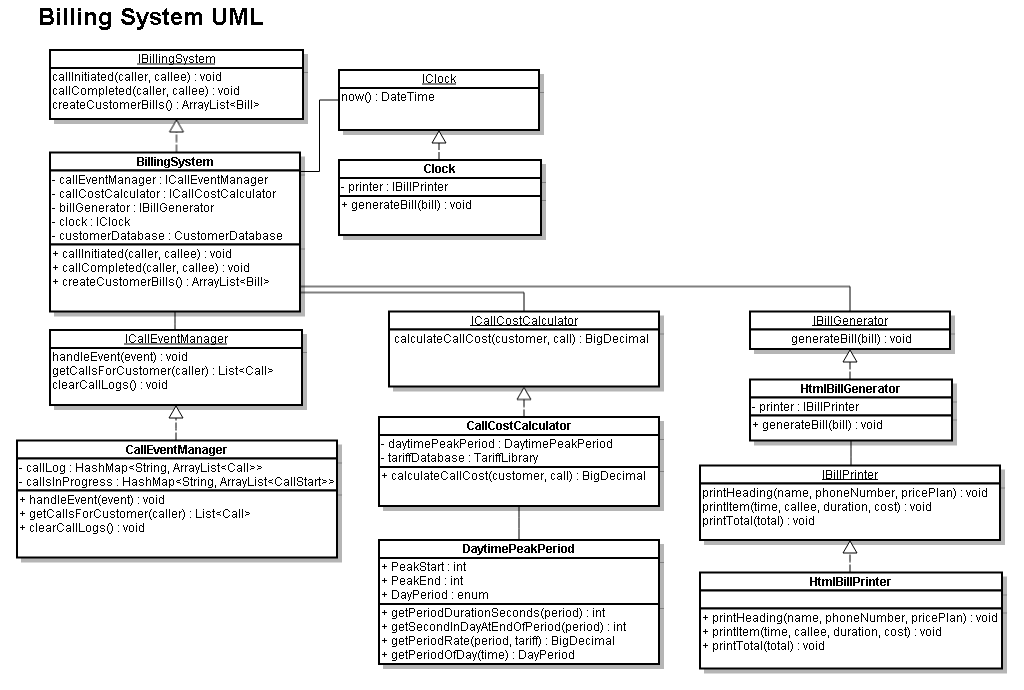
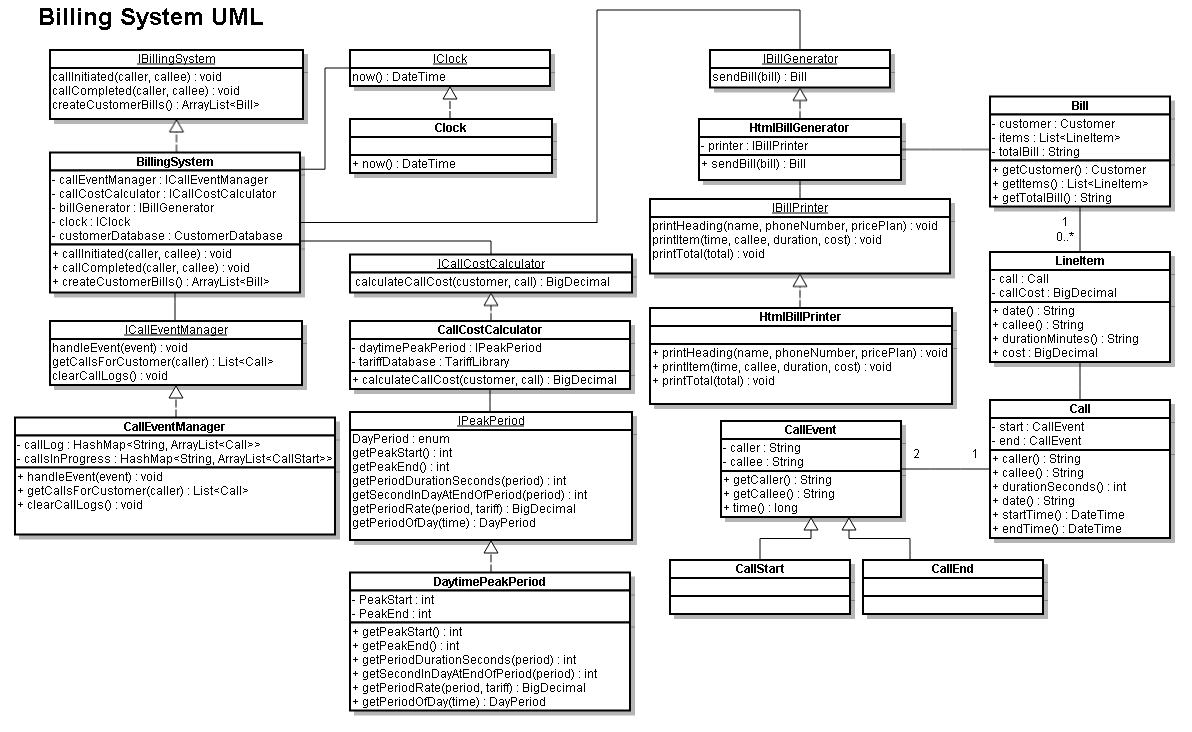
Improved call costing algorithm.

Changed region(s): [[0.0, 0.0, 1.0, 1.0], [0.5, 0.0, 0.6562, 0.0304]]

diff --git a/src/com/acmetelecom/CallCostCalculator.java b/src/com/acmetelecom/CallCostCalculator.java
@@ -55,7 +55,6 @@ public class CallCostCalculator implements ICallCostCalculator {
         
         DateTime currentTime = start;
         DayPeriod currentPeriod;
-        boolean firstPeriod = true;
         boolean done = false;
         
         // Goes through each period between start and end of call, summing cost progressively.
@@ -65,31 +64,23 @@ public class CallCostCalculator implements ICallCostCalculator {
         	BigDecimal currentPeriodRate = peakPeriod.getPeriodRate(currentPeriod, tariff);
         	boolean callEndsThisPeriod = currentDay == endDay && currentPeriod == endPeriod;
         	
-        	// First period (if call does not end in first period) -> add cost from start time until end of first period.
-        	if (firstPeriod && !callEndsThisPeriod) {
-        		int time = peakPeriod.getSecondInDayAtEndOfPeriod(currentPeriod) - start.getSecondOfDay();
-        		BigDecimal periodCost = new BigDecimal(time).multiply(currentPeriodRate);
-        		cost = cost.add(periodCost);
-        		currentTime = currentTime.plusSeconds(time);
-        		firstPeriod = false;
-        	}
         	// Call ends in this period -> add cost from now until call end time.
-        	else if (callEndsThisPeriod) {
+        	if (callEndsThisPeriod) {
         		int time = end.getSecondOfDay() - currentTime.getSecondOfDay();
         		BigDecimal periodCost = new BigDecimal(time).multiply(currentPeriodRate);
         		cost = cost.add(periodCost);
         		done = true;
         	}
-        	// Call continues throughout this period -> add cost of whole period.
+        	// Call continues to end of this period -> add cost from current time until end of period.
         	else {
-    			int periodDuration = peakPeriod.getPeriodDurationSeconds(currentPeriod);
-    			BigDecimal periodCost = new BigDecimal(periodDuration).multiply(currentPeriodRate);
-    			cost = cost.add(periodCost);
-    			currentTime = currentTime.plusSeconds(periodDuration);
+        		int time = peakPeriod.getSecondInDayAtEndOfPeriod(currentPeriod) - currentTime.getSecondOfDay();
+        		BigDecimal periodCost = new BigDecimal(time).multiply(currentPeriodRate);
+        		cost = cost.add(periodCost);
+        		currentTime = currentTime.plusSeconds(time);
         	}
         }
         
         cost = cost.setScale(0, RoundingMode.HALF_UP);
         return cost;
-	}	
+	}
 }

diff --git a/src/com/acmetelecom/Bill.java b/src/com/acmetelecom/Bill.java
@@ -10,22 +10,22 @@ import com.acmetelecom.customer.Customer;
 public class Bill {
 
 	private Customer customer;
-	private List<LineItem> calls;
+	private List<LineItem> items;
 	private String totalBill;
 	
 	/**
 	 * Constructor.
 	 * @param customer The customer this bill is for.
-	 * @param calls A list of calls this customer has made.
+	 * @param items A list of LineItems which each identifies a call the customer has made and its cost.
 	 * @param totalBill The customer's total bill.
 	 * @exception IllegalArgumentException If any of arguments are null.
 	 */
-	public Bill(Customer customer, List<LineItem> calls, String totalBill) {
+	public Bill(Customer customer, List<LineItem> items, String totalBill) {
 		AssertionHelper.NotNull(customer, "customer");
-		AssertionHelper.NotNull(calls, "calls");
+		AssertionHelper.NotNull(items, "calls");
 		AssertionHelper.NotNull(totalBill, "totalBill");
 		this.customer = customer;
-		this.calls = calls;
+		this.items = items;
 		this.totalBill = totalBill;
 	}
 	
@@ -38,11 +38,11 @@ public class Bill {
 	}
 	
 	/**
-	 * Gets the list of calls this customer will be charged for.
-	 * @return The list of calls included in this bill.
+	 * Gets the list of items/calls this customer will be charged for.
+	 * @return The list of items included in this bill.
 	 */
-	public List<LineItem> getCalls() {
-		return calls;
+	public List<LineItem> getItems() {
+		return items;
 	}
 	
 	/**

diff --git a/src/tests/AcceptanceTests.java b/src/tests/AcceptanceTests.java
@@ -206,7 +206,7 @@ public class AcceptanceTests {
 		assertTrue(bills.size() == dummyCustomers.size());
 		int callsLogged = 0;
 		for (Bill bill : bills) {
-			callsLogged += bill.getCalls().size();
+			callsLogged += bill.getItems().size();
 		}
 
 		assertTrue(callsMade == callsLogged);
@@ -235,7 +235,7 @@ public class AcceptanceTests {
 		assertTrue(bills.size() == dummyCustomers.size());
 		for (Bill bill : bills) {
 			if (bill.getCustomer().getPhoneNumber().equals(c1.getPhoneNumber())) {
-				List<LineItem> calls = bill.getCalls();
+				List<LineItem> calls = bill.getItems();
 				String totalBill = bill.getTotalBill();
 				
 				assertTrue(calls.size() == 1);

diff --git a/src/tests/HtmlBillGeneratorTests.java b/src/tests/HtmlBillGeneratorTests.java
@@ -126,8 +126,8 @@ public class HtmlBillGeneratorTests {
 		assertTrue(returnedCustomer.getFullName().equals(dummyCustomerName));
 		assertTrue(returnedCustomer.getPhoneNumber().equals(dummyCallerNumber));
 		assertTrue(returnedCustomer.getPricePlan().equals(dummyTariff));
-		assertTrue(expectedBill.getCalls().size() == items.size());
-		assertTrue(expectedBill.getCalls().get(0).callee().equals(dummyCalleeNumber));
+		assertTrue(expectedBill.getItems().size() == items.size());
+		assertTrue(expectedBill.getItems().get(0).callee().equals(dummyCalleeNumber));
 		assertTrue(returnedBill.getTotalBill().equals(dummyTotalBill));
 	}
 }

diff --git a/src/com/acmetelecom/BillingSystem.java b/src/com/acmetelecom/BillingSystem.java
@@ -94,8 +94,7 @@ public class BillingSystem implements IBillingSystem {
         log.info("About to create " + customers.size() + " customer bills.");
         
         for (Customer customer : customers) {
-            Bill bill = createBillFor(customer);
-            customerBills.add(bill);
+            customerBills.add(createBillFor(customer));
         }
         
         callEventManager.clearCallLogs();
